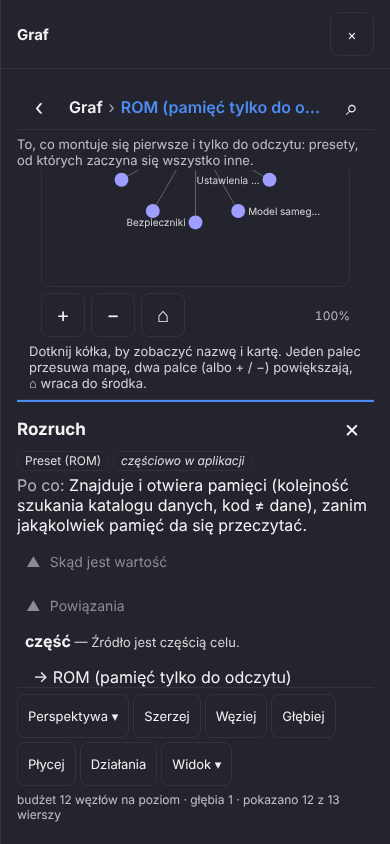
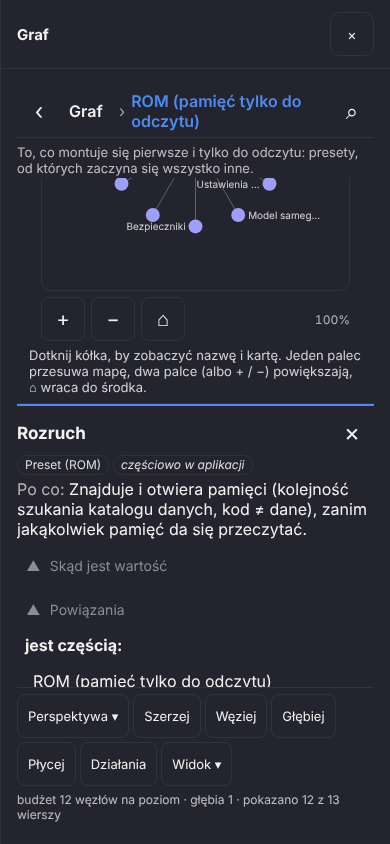
M1-W0 fix batch r1:b5 (tests + docs): kernel ctest 13/13 (guardian M1-D1 with the new class expectations, graph_projection, onboarding, ports), e2e m1-navigator 12/12 (card step checks the per-direction headings, the concrete node names and no generic meaning sentence), m1-settings 9/9; 12 screensho
Claude-Session: https://claude.ai/code/session_015yMVYJqXDd8sNSZdYq3gu5

diff --git a/docs/reports/INDEX.md b/docs/reports/INDEX.md
@@ -1570,3 +1570,10 @@ budowy cmake nie uruchamiano (dysk zajęty przez bramkę gdzie indziej).
 - Generaty: `builtin.inc` + `conversation-view.json` (po `conversation_view.pack`); `gen_onboarding_pack.py --check` i `gen_runtime_profiles.py --check` czyste; jądro dev przebudowane przyrostowo.
 - Testy (fakty): `tsc` + `npm run build` czyste; node-card-state 8/8, navigator-state 9/9, navigator-map 9/9, settings-human 7/7, role-card 5/5; `test:m1-navigator` 12/12 (e2e porównuje liczby łańcucha przez `words.decimal_separator`), `test:m1-settings` 9/9; 18 zrzutów w `docs/reports/M1_CHECKPOINT_0/` zapisanych ponownie. Nie uruchomione: `ctest`, pełne `npm run e2e`, `android-smoke`, sterownik S2 z nowym blokiem.
 - Decyzje i jak cofnąć: (a) separator dziesiętny to słowo ekranu, nie `Intl.NumberFormat` — bo jądro pisze `value_human` z tego samego rodzaju słowa i tak oba zapisy są identyczne co do znaku (Intl grupowałby tysiące inaczej niż jądro); cofnięcie: `numberText` → `String(value)`. (b) Wzorce `gate0` dwujęzyczne jako siatka bezpieczeństwa, a nie zamiast warunku `ui_language=pl` — Gate 0 ocenia ekrany po polsku; cofnięcie: przywrócić wzorce tylko pl. (c) `preconditions` to dodatkowy klucz obok `gate0` (JSON parsuje się tak samo; sterownik S2, który czyta tylko `gate0`, go nie zauważy — S2 ma go honorować po stronie `drive.mjs`).
+
+### S1 / M1-W0 (poprawki po przeglądzie r1:b5: okruszki zawijane, wzorzec „-mini”, powiązania o konkretnym węźle, wstęp liczy grupy, Warsztat bez dwóch „Graf”) (2026-10-21, branch `claude/m1-w0`)
+
+- Co jest (5 ustaleń przeglądu, wszystkie poprawione): (1) `graph-navigator.css`: ostatni okruszek zawija (`white-space: normal`), wcześniejsze `flex: 0 1 auto; min-width: 56px; max-width: 40%`, ostatni `flex: 1 1 0; min-width: 40%`. (2) `guardian.pack`: wzorzec „mini” → „-mini”; `reason.pattern` (pl/en) i `tier_rule` mówią o myślniku i o kolejności („gpt-5-mini” tania przed frontier „gpt-5”); `test_guardian.cpp` M1-D1: gemini-2.5-pro = frontier, gemini-2.5-flash / gpt-4o-mini / gpt-5-mini = cheap. (3) `projection.h/.cpp`: `Catalogue::edge_inverse`; `graph.card.relations[k]` += `inverse`, `inverse_label`; `graph_views.pack` `part_of.label` = „jest częścią” / „is part of”; `graph-projection.ts` typ; `node-card-state.ts` `relationGroups` → `inverseLabel`; `NodeCard.tsx` nagłówek per kierunek (`card-relation-head-out-<kind>` / `-in-`), bez `meaning`; e2e `m1-navigator` sprawdza nagłówki, nazwy węzłów i brak zdania znaczenia. (4) `conversation_view.pack` `settings_human.intro` = „{{groups}}. …”, słowa `count.groups.*`; `countWord` przyjmuje `groups`; `SettingsHuman.tsx` podaje `doc.groups.length`. (5) Słowo `workshop_graph_entry` (pl/en); `App.tsx` `PANEL_TEXT_IDS`: `graph-entry` → `workshop_graph_entry`, `memory` → `menu_memory`.
+- Generaty: `runtime_profiles_embedded.inc` (po `guardian.pack`, `graph_views.pack`), `builtin.inc` + `conversation-view.json` (po `conversation_view.pack`); `gen_runtime_profiles.py --check` i `gen_onboarding_pack.py --check` czyste; jądro dev przebudowane przyrostowo.
+- Testy (fakty): `tsc` + `npm run build` czyste; `ctest -R "guardian|graph_projection|onboarding|ports|graph_views|annotations"` 13/13 (M1-D1 klasy modelu z nowymi oczekiwaniami); node-card-state 8/8, settings-human 7/7, navigator-state 9/9, navigator-map 9/9, role-card 5/5, shell 9/9, composer-menu 13/13; `test:m1-navigator` 12/12, `test:m1-settings` 9/9; 12 zrzutów w `docs/reports/M1_CHECKPOINT_0/` zapisanych ponownie (sprawdzone wzrokiem: `m1-navigator-card-rom.png`, `m1-settings-role-card.png`, `m1-settings-groups.png`). Nie uruchomione: pełny `ctest`, pełne `npm run e2e`, `android-smoke`, sonda Warsztatu w przeglądarce.
+- Decyzje i jak cofnąć: (a) kotwica „-mini” zamiast regexu lub podziału na segmenty — dopasowanie jądra to podciąg (`models.cpp model_tier`, `projection.cpp tier_reason`) i myślnik wystarcza dla gpt-*/o*-mini; „ministral”/„minimax” przestają być tanie przez przypadek i są „nieznane” (prawda: żaden wzorzec ich nie opisuje; przepływ unknown = narrow_questions, ten sam co cheap); cofnięcie: wzorzec „mini”. (b) Nagłówek wierszy przychodzących z `inverse_label` rodzaju (dane `graph_views`), bez nowych fraz na każdy z 46 rodzajów; rodzaj bez odwrotności: jeden nagłówek + strzałki; cofnięcie: przywrócić `g.label — g.meaning`. (c) Zdanie znaczenia rodzaju zeszło z karty (zostaje w `graph.card.meaning`); cofnięcie: dopisać je pod nagłówkiem. (d) Wstęp z parametrem, nie bez liczby — liczba grup jest faktem z `settings.resolved`; cofnięcie: słowo bez `{{groups}}`. (e) Logs/Operations/Import/Context/Methods/Analysis/Onboarding w Warsztacie po angielsku: brak słów w katalogu, poza zakresem paczki.

diff --git a/docs/reports/M1_CHECKPOINT_0.md b/docs/reports/M1_CHECKPOINT_0.md
@@ -208,6 +208,33 @@ oddaje decyzję powłoce (`window.__loomBack()` zwraca `false` — tam Android p
   testy. Nie uruchomione: `ctest`, pełne `npm run e2e`, `android-smoke`, sterownik S2 z nowym blokiem (sprawdzony tylko parserem
   i wzorcami na trzech próbkach tekstu).
 
+## Co doszło w poprawkach r1:b5 (2026-10-21, fakty z przebiegu)
+
+- **Ścieżka nie ucina jedynej nazwy poziomu:** ostatni okruszek („ROM (pamięć tylko do odczytu)”, „Profile i ustawienia”) zawija
+  się na drugą linię (`white-space: normal`, `graph-navigator.css`); wcześniejsze okruszki skracają się pierwsze (wielokropek, nie
+  poniżej 56 px). Zrzuty: `m1-navigator-rom.png`, `m1-navigator-card-rom.png`, `m1-navigator-card-setting.png`.
+- **Klasa modelu bez przypadku:** wzorzec klasy taniej „mini” łapał „gemini” (gemini-2.5-pro wychodził „tani”, a powód na karcie
+  roli to przyznawał). Wzorzec to teraz „-mini” z myślnikiem (`guardian.pack`): gemini-2.5-flash jest tani przez „flash” (wzorce
+  „flash” i „lite” już były), gemini-2.5-pro jest frontier przez „pro”, gpt-4o-mini i gpt-5-mini tanie przez „-mini” (klasa tania
+  pierwsza). Powód na karcie: „tani, bo nazwa zawiera „flash” (wzorzec to fragment nazwy; „-mini” ma myślnik, żeby nie łapać
+  „gemini”)”; `tier_rule` mówi to samo. `test_guardian` (M1-D1) oczekuje nowych klas. Zrzut: `m1-settings-role-card.png`.
+- **Powiązania mówią o konkretnym węźle:** nagłówek grupy to czasownik i węzły („jest częścią: ROM (pamięć tylko do odczytu)”, a od
+  strony ROM „zawiera: Rozruch…”), nie znaczenie rodzaju krawędzi („Źródło jest częścią celu.”). Jądro dosyła w `graph.card`
+  `inverse` i `inverse_label` rodzaju (`graph_views` `edge_kinds.inverse`, nowe `Catalogue::edge_inverse`); etykieta `part_of` to
+  „jest częścią” / „is part of” (była „część”). Rodzaj bez odwrotności ma jeden nagłówek i strzałki kierunku przy wierszach.
+  Zrzut: `m1-navigator-card-rom.png`.
+- **Wstęp Ustawień liczy grupy, które rysuje:** „8 grup. W każdej pola z opisem…” — `{{groups}}` z `doc.groups.length` przez formy
+  liczby mnogiej `count.groups.*` (pl one/few/many/other, en one/other), tak jak `count.fields`. Zrzut: `m1-settings-groups.png`.
+- **Warsztat bez dwóch „Graf”:** stare wejście do grafu nazywa się „Wejście do grafu (stare)” (słowo `workshop_graph_entry`), „Graf”
+  zostaje nawigatorowi; stary panel pamięci bierze słowo `menu_memory` („Pamięć”), które już było. Pozostałe etykiety Warsztatu
+  (Logs, Operations, Import, Context, Methods, Analysis, Onboarding) nadal po angielsku — nie mają słów w katalogu; osobna paczka.
+- Testy (fakty): `tsc` + `npm run build` czyste; `gen_runtime_profiles.py --check` i `gen_onboarding_pack.py --check` czyste; jądro
+  dev przebudowane przyrostowo (`projection.h/.cpp`, `test_guardian.cpp`, oba `.inc`); `ctest -R "guardian|graph_projection|onboarding|ports|graph_views|annotations"` 13/13 (M1-D1 klasy modelu z nowymi oczekiwaniami); jednostkowe web: node-card-state
+  8/8 (`inverseLabel`), settings-human 7/7 (formy „1 grupa / 2 grupy / 5 grup / 22 grupy”, „8 groups”), navigator-state 9/9,
+  navigator-map 9/9, role-card 5/5, shell 9/9, composer-menu 13/13; `test:m1-navigator` 12/12 (krok karty sprawdza nagłówki per
+  kierunek, nazwy węzłów i brak zdania znaczenia), `test:m1-settings` 9/9; 12 zrzutów zapisanych ponownie przez te testy. Nie
+  uruchomione: pełny `ctest`, pełne `npm run e2e`, `android-smoke`, sonda Warsztatu w przeglądarce (słowo sprawdzone w bundlu).
+
 ## Czego jeszcze NIE ma (i dlaczego)
 
 - **Przełącznik „Ustawiam dla: mnie / tej rozmowy / projektu…”** nad listą pól — dziś poziom wybierasz w karcie przy
